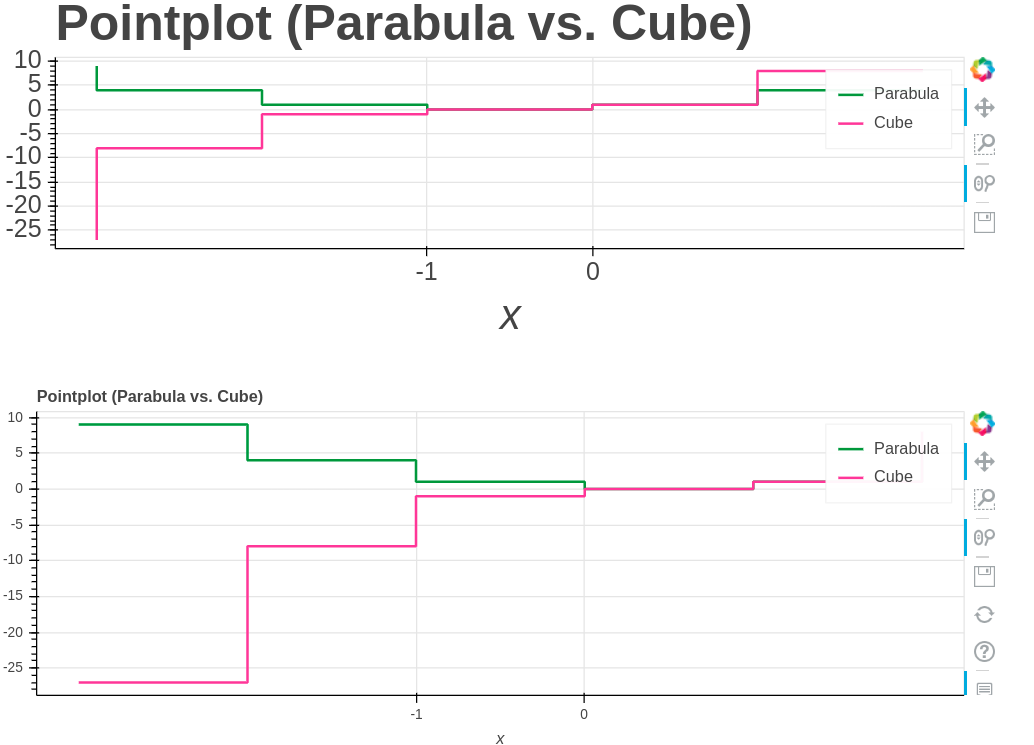
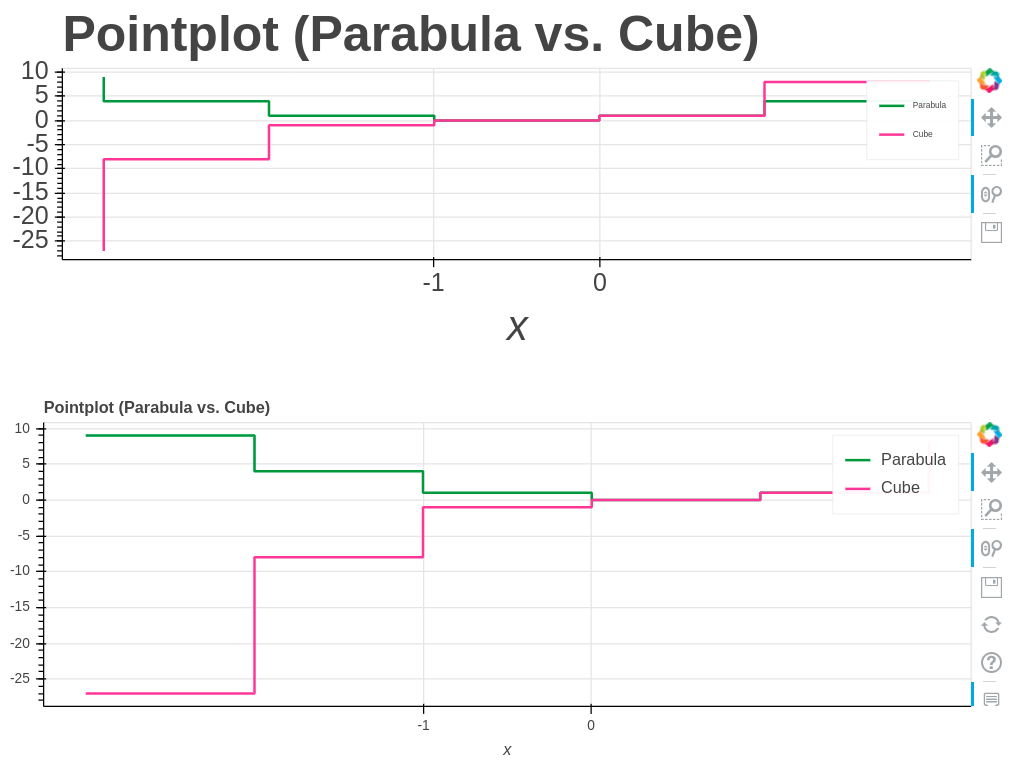
add fontsize_legend

diff --git a/pandas_bokeh/plot.py b/pandas_bokeh/plot.py
@@ -35,7 +35,7 @@ from bokeh.plotting import figure
 from bokeh.transform import cumsum, dodge
 from pandas.core.base import PandasObject
 
-from .base import embedded_html, show
+from .base import embedded_html, show, set_fontsizes_of_figure
 from .geoplot import geoplot
 
 
@@ -50,13 +50,6 @@ def check_type(data):
         return "datetime"
     else:
         return "object"
-
-
-def _set_fontsize(figure, fontsize, where):
-    if isinstance(fontsize, int) and fontsize > 0:
-        fontsize = f"{fontsize}pt"
-    setattr(figure.xaxis, where, fontsize)
-    setattr(figure.yaxis, where, fontsize)
 
 
 def get_colormap(colormap, N_cols):
@@ -141,6 +134,7 @@ def plot(
     fontsize_title=None,
     fontsize_label=None,
     fontsize_ticks=None,
+    fontsize_legend=None,
     color=None,
     colormap=None,
     category=None,
@@ -901,23 +895,6 @@ def plot(
     if not legend:
         p.legend.visible = False
 
-    # Set fontsizes:
-    if fontsize_title:
-        if isinstance(fontsize_title, int) and fontsize_title > 0:
-            fontsize_title = f"{fontsize_title}pt"
-        p.title.text_font_size = fontsize_title
-
-    if fontsize_label:
-        _set_fontsize(
-            figure=p, fontsize=fontsize_label, where="axis_label_text_font_size"
-        )
-
-    if fontsize_ticks:
-        _set_fontsize(
-            figure=p, fontsize=fontsize_ticks, where="major_label_text_font_size"
-        )
-
-
     # Modify legend position:
     else:
         if legend is True:
@@ -938,6 +915,16 @@ def plot(
             raise ValueError(
                 "Legend can only be True/False or one of 'top_left', 'top_center', 'top_right', 'center_left', 'center', 'center_right', 'bottom_left', 'bottom_center', 'bottom_right'"
             )
+
+    # Set fontsizes:
+    set_fontsizes_of_figure(
+        figure=p,
+        fontsize_title=fontsize_title,
+        fontsize_label=fontsize_label,
+        fontsize_ticks=fontsize_ticks,
+        fontsize_legend=fontsize_legend,
+    )
+
 
     # Scientific formatting for axes:
     if disable_scientific_axes is None:

diff --git a/pandas_bokeh/base.py b/pandas_bokeh/base.py
@@ -10,6 +10,43 @@ OUTPUT_TYPE = "file"
 SUPPRESS_OUTPUT = False
 
 
+def _set_fontsize(figure, fontsize, where):
+    "Set fontsize on x- and y-axis"
+    if isinstance(fontsize, int) and fontsize > 0:
+        fontsize = f"{fontsize}pt"
+    setattr(figure.xaxis, where, fontsize)
+    setattr(figure.yaxis, where, fontsize)
+
+def set_fontsizes_of_figure(
+        figure,
+        fontsize_title,
+        fontsize_label,
+        fontsize_ticks,
+        fontsize_legend,
+    ):
+    "Set various fontsizes of figure"
+    
+    if fontsize_title:
+        if isinstance(fontsize_title, int) and fontsize_title > 0:
+            fontsize_title = f"{fontsize_title}pt"
+        figure.title.text_font_size = fontsize_title
+
+    if fontsize_label:
+        _set_fontsize(
+            figure=figure, fontsize=fontsize_label, where="axis_label_text_font_size"
+        )
+
+    if fontsize_ticks:
+        _set_fontsize(
+            figure=figure, fontsize=fontsize_ticks, where="major_label_text_font_size"
+        )
+
+    if fontsize_legend:
+        if isinstance(fontsize_legend, int) and fontsize_legend > 0:
+            fontsize_legend = f"{fontsize_legend}pt"
+        figure.legend.label_text_font_size = fontsize_legend
+
+
 def plot_grid(children, show_plot=True, return_html=False, **kwargs):
     """Create a grid of plots rendered on separate canvases and shows the layout. 
     plot_grid is designed to layout a set of plots. 

diff --git a/Tests/test_PandasBokeh.py b/Tests/test_PandasBokeh.py
@@ -124,9 +124,16 @@ def test_basic_lineplot(df_stock):
         fontsize_title=30,
         fontsize_label=25,
         fontsize_ticks=15,
+        fontsize_legend=40,
         show_figure=False,
     )
-    p_basic_lineplot_accessor_pandas_backend = df_stock.plot.line(show_figure=False)
+    p_basic_lineplot_accessor_pandas_backend = df_stock.plot.line(
+        fontsize_title=30,
+        fontsize_label=25,
+        fontsize_ticks=15,
+        fontsize_legend=40,
+        show_figure=False,
+    )
 
     # Output plot as HTML:
     output = pandas_bokeh.row([p_basic_lineplot, p_basic_lineplot_accessor])

diff --git a/README.md b/README.md
@@ -191,7 +191,7 @@ There are various optional parameters to tune the plots, for example:
 * **toolbar_location**: Specify the position of the toolbar location (None, "above", "below", "left" or "right"). Default: *"right"*
 * **zooming**: Enables/Disables zooming. Default: *True*
 * **panning**: Enables/Disables panning. Default: *True*
-* **fontsize_label/fontsize_ticks/fontsize_title**: Set fontsize of labels, ticks or title (int or string of form "15pt")
+* **fontsize_label/fontsize_ticks/fontsize_title/fontsize_legend**: Set fontsize of labels, ticks, title or legend (int or string of form "15pt")
 * **rangetool** Enables a range tool scroller. Default *False*
 
 
@@ -297,7 +297,6 @@ df.plot_bokeh.point(
 With a similar API as the line- & pointplots, one can generate a stepplot. Additional keyword arguments for this plot type are passes to [bokeh.plotting.figure.step](bokeh.plotting.figure.scatter), e.g. **mode** (before, after, center), see the following example 
 
 ```python
-
 import numpy as np
 
 x = np.arange(-3, 3, 1)
@@ -313,6 +312,7 @@ df.plot_bokeh.step(
     fontsize_title=30,
     fontsize_label=25,
     fontsize_ticks=15,
+    fontsize_legend=5,
     )
 
 df.plot_bokeh.step(
